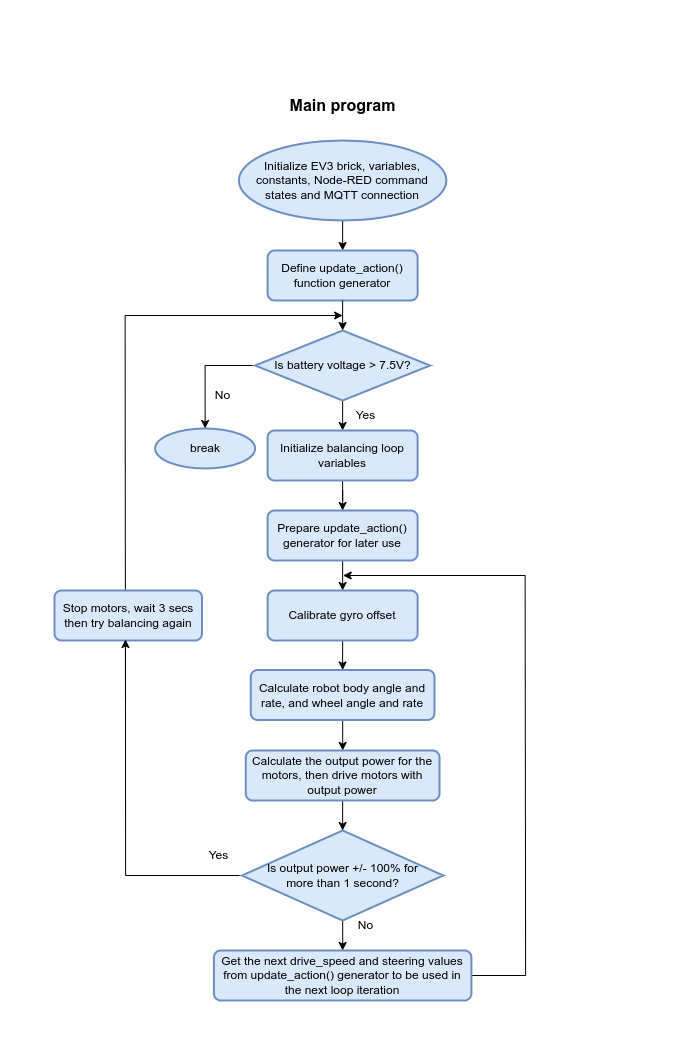
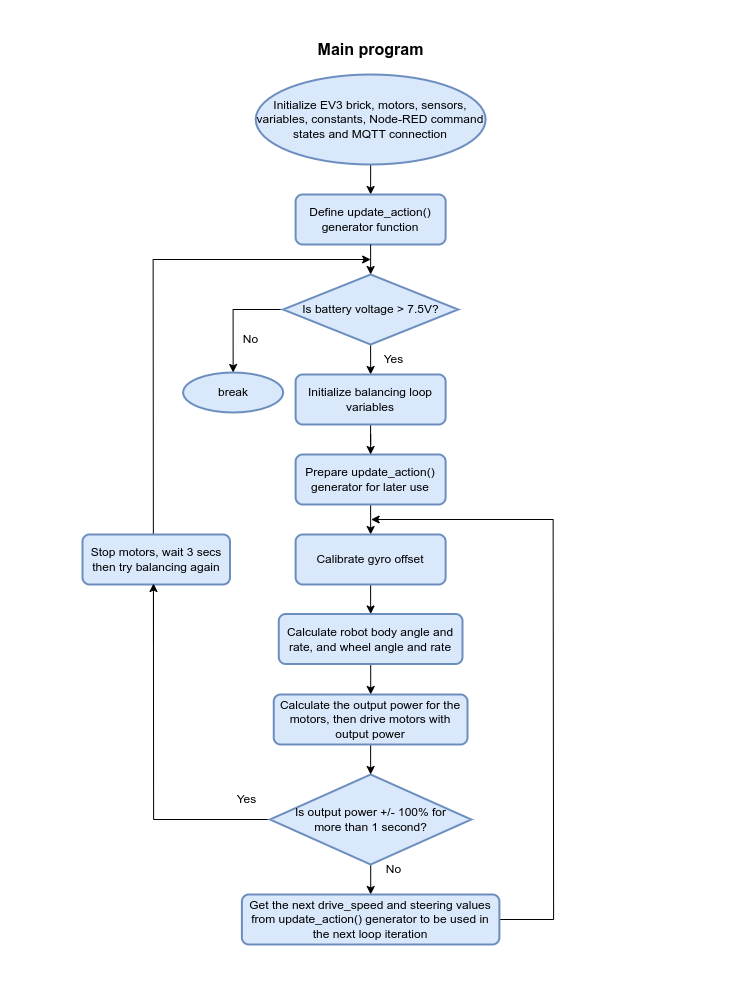
Update README

Changed region(s): [[0.0618, 0.0312, 0.7103, 0.9678], [0.7412, 0.5307, 0.7721, 0.7805], [0.7412, 0.9053, 0.7721, 0.9366]]

diff --git a/main.py b/main.py
@@ -84,8 +84,8 @@ def get_commands(topic, msg):
 
 # MQTT connection setup
 MQTT_ClientID = 'Segway'
-SERVER = '192.168.1.111'
-client = MQTTClient(MQTT_ClientID, SERVER)
+BROKER = '192.168.1.111'
+client = MQTTClient(MQTT_ClientID, BROKER)
 client.connect()
 
 Topic = 'nodered/commands'
@@ -95,7 +95,7 @@ client.subscribe(Topic)
 
 """
 This function is a generator that checks for messages from Node-RED and if the beacon is on and in range, to update 
-the drive speed and steering values appropriately.
+the drive speed and steering values accordingly.
 
 To ensure that no function calls are made that would otherwise affect the control loop time in the main program, 
 those calls yield to the control loop while waiting for a certain thing to happen like this:
@@ -116,6 +116,7 @@ def update_action():
         # MQTT mode
         if Node_RED_Command['move_forward'] == True:
             yield FORWARD 
+            # Drive forward for 5 seconds, then stop
             while action_timer.time() < 5000:
                 yield
             yield STOP

diff --git a/README.md b/README.md
@@ -187,7 +187,7 @@ Double click on the *mqtt out* node and choose the broker that was just set up a
 
 Click again on the *Deploy* button to effect these changes.
 
-The `mosquitto_sub` client will be used to demonstrate MQTT subscription. The client will subscribe to the topic **test/topic** to receive any incoming messages published from Node-RED.
+The `mosquitto_sub` client will be used to demonstrate MQTT subscription. The client will subscribe to the topic **'test/topic'** to receive any incoming messages published from Node-RED.
 
 Firstly, double click on the *inject* node, choose a name for it, then change the payload type from timestamp to a string.
 
@@ -195,7 +195,7 @@ Firstly, double click on the *inject* node, choose a name for it, then change th
   <img src=docs/images/1_inject_node.png width=400>
 </p>
 
-Type in a message to be sent, input the message topic as **topic/test** then click on *Done*.
+Type in a message to be sent, input the message topic as **'test/topic'** then click on *Done*.
 
 <p align='center'>
   <img src=docs/images/2_inject_node.png width=400>
@@ -216,37 +216,142 @@ To publish the message from the Node-RED client, click on the button on the left
 The published message is received by the `mosquitto_sub` client.
 
 <p align='center'>
-  <img src=docs/images/terminal_mqtt_message.png width=400>
+  <img src=docs/images/terminal_mqtt_message.png width=500>
 </p>
 
 The message is also shown in the Node-RED debug panel. 
 
 <p align='center'>
-  <img src=docs/images/publish_message_nodered.png width=800>
+  <img src=docs/images/publish_message_nodered.png>
 </p>
 
 ## Main program 
 
-With all the requisite softwares installed and setup, it's time to delve into the main segway program. The code for the segway is modified from the [Gyro Boy project](https://pybricks.com/ev3-micropython/examples/gyro_boy.html) which balances the Gyro Boy on its two wheels by making use of the EV3 Gyro sensor. The following flow chart summarizes the major parts of the program.
+With all the requisite softwares installed and setup, it's time to delve into the main segway program. The code for the segway is modified from the [Gyro Boy project](https://pybricks.com/ev3-micropython/examples/gyro_boy.html) which balances the Gyro Boy on its two wheels by making use of the EV3 Gyro sensor. The `main.py` Python script contains a lot of lines of code with comments as well, however, the major parts of the program are summarized in the flow chart below.
 
 <p align='center'>
   <img src=docs/images/main_program.png>
 </p>
 
-### Segway connection to MQTT and Node-RED
+### Initializations
+The program starts by initializing the EV3 brick, the two motors, the infrared and gyro sensors and various constants and variables. Some of these variables include a `namedtuple` called *Action* used to define the `drive_speed` and `steering` values for particular robot actions. These values are used later to calculate the output power of the motors to move or keep the segway stationary while balanced.
 
-<p align='center'>
-  <img src=docs/images/mosquitto_connection.png>
-</p>
+```
+# Robot action definition used to change how the robot drives
+Action = namedtuple('Action', ['drive_speed', 'steering'])
 
-### Control Modes
+# Pre-defined robot actions
+FORWARD = Action(drive_speed=150, steering=0)
+BACKWARD = Action(drive_speed=-60, steering=0)
+TURN_LEFT = Action(drive_speed=0, steering=80)
+TURN_RIGHT = Action(drive_speed=0, steering=-80)
+STOP = Action(drive_speed=0, steering=0)
+```
+
+Another set of variables that are initialized is a dictionary of Node-RED command states. The states are all initialized as `False` then when a command is received from Node-RED the corresponding command state is set to `True` with the respective action executed by the Segway. This process will be elaborated on in the [directional control](#mqtt-mode-for-directional-control-with-node-red) subsection.
+
+```
+# Initialize Node-RED command states
+Node_RED_Command = {
+    'move_forward': False,
+    'move_backward': False,
+    'turn_right': False,
+    'turn_left': False,
+}
+```
+
+The EV3 MicroPython image has the lightweight MQTT client, [`umqtt`](https://mpython.readthedocs.io/en/v2.2.1/library/mPython/umqtt.simple.html), built in. It is imported for use in the main program as follows:
+
+```from umqtt.simple import MQTTClient```
+
+However, to ensure that the segway can connect to MQTT broker without any authentication requirements, some lines will need to be added to the mosquitto configuration file. First stop the mosquitto service and open the `mosquitto.conf` file with one's favorite editor with admin privileges:
+```
+sudo vim /etc/mosquitto/mosquitto.conf
+```
+
+Add these lines to enable the segway to listen for incoming network connections on port 1883 (MQTT broker default port) and to connect easily to the MQTT broker without any authentication:
+
+```
+listener 1883 0.0.0.0
+allow_anonymous true
+```
+
+Save these changes then start up the mosquitto service again. More information about configuring mosquitto is available [here](https://mosquitto.org/man/mosquitto-conf-5.html).
+
+The code snippet below shows the procedure for the segway to establish an MQTT connection with mosquitto where the `BROKER` constant is the IP address of the MQTT broker. 
+
+```
+# MQTT connection setup
+MQTT_ClientID = 'Segway'
+BROKER = '192.168.1.111'
+client = MQTTClient(MQTT_ClientID, BROKER)
+client.connect()
+
+Topic = 'nodered/commands'
+client.set_callback(get_commands)
+client.publish(Topic, 'Publishing test')
+client.subscribe(Topic)
+```
+
+### update_action() generator function
+The final step before stepping into the main program loop is defining the `update_action()` generator function. A Python generator function is a function that returns a lazy iterator, or an on-demand iterable object. These objects can be looped over like a list, however, unlike lists, lazy iterators do not store their contents in memory.
+
+A generator function, or simply a generator, differs from a normal Python function as it uses a `yield` statement instead of the `return` statement.
+
+Consider the simple script below.
+
+```
+def test():
+    yield 1
+    yield 2
+    yield 3
+
+values = test()
+
+print(values)
+print(next(values))
+print(next(values))
+print(next(values))
+```
+
+The following output is obtained after the script is executed:
+```
+<generator object test at 0x7f381be2e1f0>
+1
+2
+3
+```
+
+At this point, `values = test()`, when the generator is called, it does not execute the function body immediately. Instead it returns a generator object, which was printed out with `print(values)`. The `yield` keyword is used to produce a value from the generator. The `next()` method is used to loop over the object and outputs the yielded numbers `1, 2, 3` from `print(next(values))`; `for` loops can also be used to iterate over generators. 
+
+When a generator calls `yield` it is momentarily passing control back to the code looping over the generator values. The `next()` method, or `for` loop, then passes control to the generator which yields a value back. This exchange of control continues until there are no more yields in the generator.
+
+The YouTube video by [Socratica](https://www.youtube.com/watch?v=gMompY5MyPg) and these tutorials by [RealPython]((https://realpython.com/introduction-to-python-generators/)) and [Programiz](https://www.programiz.com/python-programming/generator) provide more detailed information and examples on Python generators.
+
+In the case of this project, the `update_action()` generator checks for directional control messages from Node-RED and if the beacon is on and in range, `yield` is used update the `drive_speed` and `steering` values accordingly with: 
+
+```
+yield action
+```
+For instance, to move the segway forward, the `drive_speed` and `steering` values are updated with this predefined robot action:
+```
+yield FORWARD
+```
+These values are looped over by the main progam control loop and used to calculate the output power of the motors. 
+
+To ensure that no function calls are made that would otherwise affect the control loop time in the main program, those calls yield to the control loop while waiting for a certain thing to happen like this:
+
+    while not condition:
+        yield
+
+As shown in the figure below, the `update_action()` generator encloses the segway's MQTT and Beacon mdoes of operations. The respective steps for each mode are covered in the subsequent subsections.
 
 <p align='center'>
   <img src=docs/images/update_action.png>
 </p>
 
 
-### MQTT mode for directional control with Node-RED
+#### MQTT mode for directional control with Node-RED
 <p align='center'>
   <img src=docs/images/mqtt_mode.png>
 </p>
@@ -256,11 +361,18 @@ With all the requisite softwares installed and setup, it's time to delve into th
   <img src=docs/images/Node-RED-commands.png>
 </p>
 
-### Beacon mode for tether control with beacon
+
+<p align='center'>
+  <img src=docs/images/mosquitto_connection.png>
+</p>
+
+#### Beacon mode for tether control with beacon
 
 <p align='center'>
   <img src=docs/images/beacon_mode.png>
 </p>
+
+### Main program loop
 
 ## Walkthrough video
 
@@ -272,3 +384,4 @@ With all the requisite softwares installed and setup, it's time to delve into th
 - [HiveMQ](https://www.hivemq.com/mqtt/)
 - [NodeRED](https://nodered.org/about/)
 - [TheThingsIndustries](https://www.thethingsindustries.com/docs/integrations/node-red/)
+- [HackMD: Installing and Using MQTT Broker (Mosquitto) & Node-Red](https://hackmd.io/@lnu-iot/rJr_nGyq5#:~:text=Connecting%20Node%2DRed%20to%20Mosquitto%20MQTT%20Broker&text=Step%201%3A%20Add%20an%20%22mqtt,to%20add%20a%20new%20server.)
